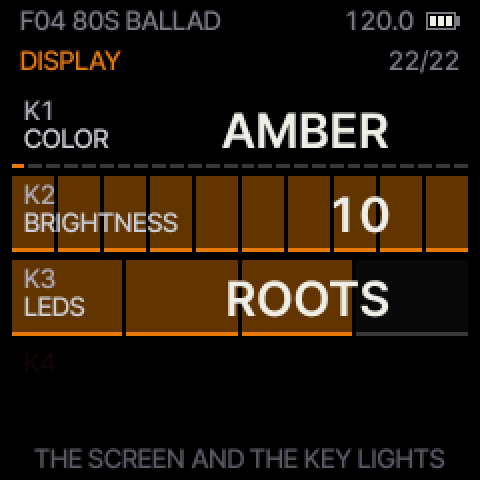
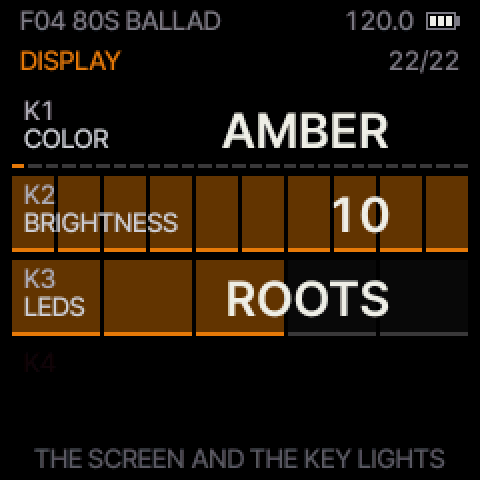
Gate M: MARIMBA's own effects renders (fx/m_*, CC 79 127, the Rhodes' and VIBES' fx cases) join Gate R; MANUAL: the pedal's key lights (a note let go before the pedal went down stays dark); display.png with the 5 LEDS steps
Claude-Session: https://claude.ai/code/session_01Dz8MB3aMWQ3NXyFVXtBmgi

diff --git a/tools/gate_r.py b/tools/gate_r.py
@@ -50,11 +50,11 @@ def fx_scripts():
     for t in (14, 30, 45, 60, 75, 90, 110):
         cases[f'filt{t}'] = dict(FL_TYPE=t, FL_FREQ=50 + t // 3, FL_RESO=90, FL_LFO=100, PH_SW=127, PH_DEPTH=90)
     res = {}
-    for vib in (0, 1):
+    for vib in (0, 1, 2):                         # the Rhodes (F01), VIBES (CC 79 0), MARIMBA (CC 79 127: Gate M)
         for name, fx in cases.items():
             ev, t = [], 50
             if vib:
-                ev.append(f'{t} midi 0xB0 79 0'); t += 10
+                ev.append(f'{t} midi 0xB0 79 {0 if vib == 1 else 127}'); t += 10
             d = dict(fx)
             if 'CP_SW' in d:
                 ev.append(f'{t} midi 0xB0 85 {d.pop("CP_SW")}'); t += 5
@@ -73,7 +73,7 @@ def fx_scripts():
                 t += 600
             ev.append(f'{t} midi 0xB0 64 0'); t += 2500
             ev.append(f'{t} end')
-            res[f'fx/{"v_" if vib else ""}{name}'] = '\n'.join(ev) + '\n'
+            res[f'fx/{("", "v_", "m_")[vib]}{name}'] = '\n'.join(ev) + '\n'
     return res
 
 

diff --git a/docs/MANUAL.md b/docs/MANUAL.md
@@ -124,7 +124,8 @@ plays (blinking while it records), FX when the effects are
 active, REC while the sustain holds (from MIDI CC 64 too), PLAY on the beat when something is synced (and while the
 sequencer or the arpeggiator plays), HOME on PERFORM and the main page, GLO on TEMPO, SETUP, MIDI and DISPLAY,
 OCT− / OCT+ while the octave is shifted, SAVE blinking in save mode, and each key while it is held, or its note is
-held over MIDI (USB or TRS), or still rings under the sustain (see LEDS on the DISPLAY page).
+held over MIDI (USB or TRS), or the sustain holds it and it still rings (a note let go before the pedal went down
+stays dark; see LEDS on the DISPLAY page).
 
 ## 4. The pages
 
@@ -455,7 +456,7 @@ the TRS jack: notes, every CC in the table below, program changes, clock, start 
 
 ### DISPLAY
 
-![DISPLAY](manual/img/display.png?v=389263b4)
+![DISPLAY](manual/img/display.png?v=d7dfb584)
 
 | Knob | Card | What it does |
 | --- | --- | --- |
